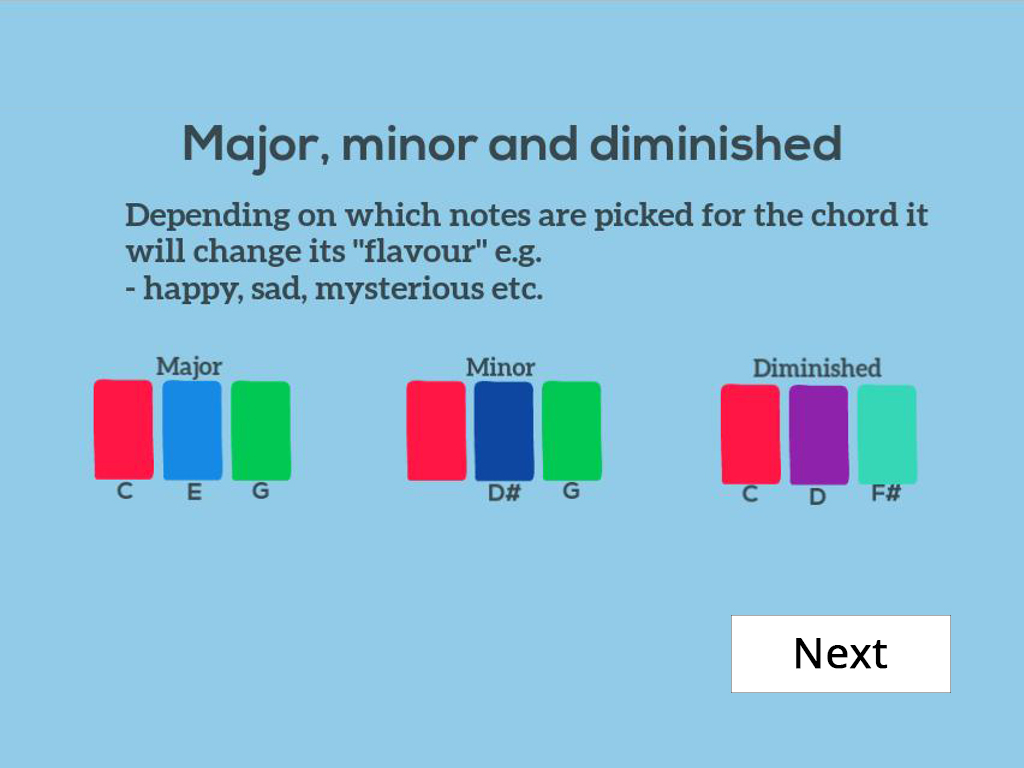
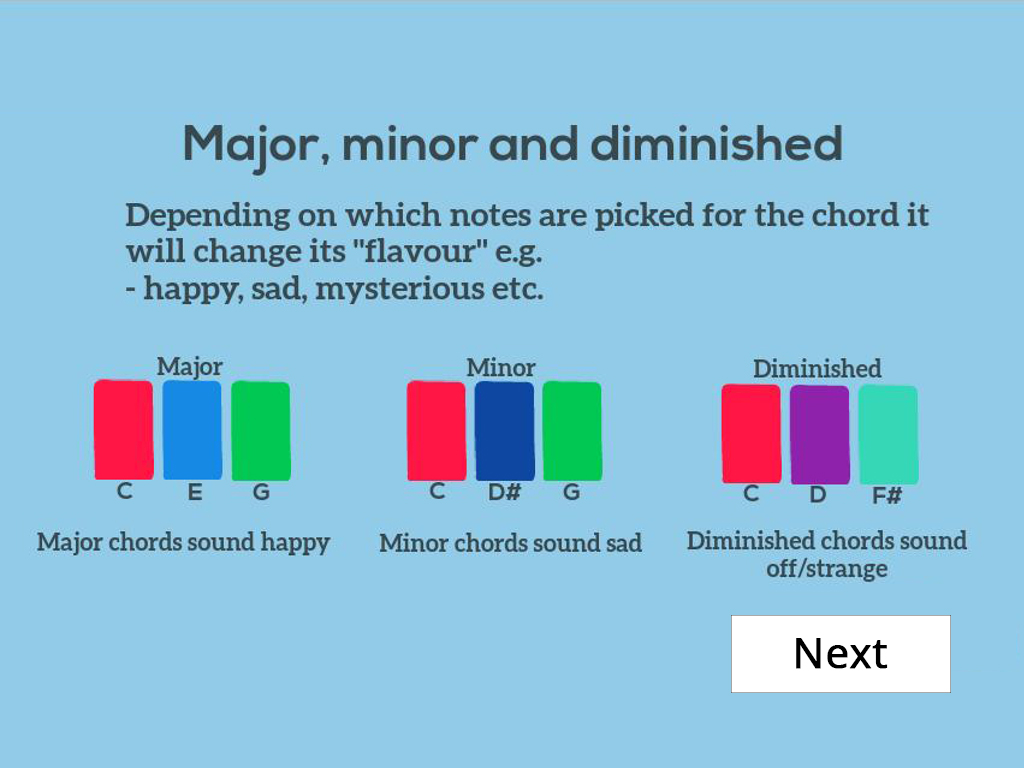
Updated tutorial with new page(tut6)/edited tut5

diff --git a/Game/Game/GUI.cpp b/Game/Game/GUI.cpp
@@ -257,7 +257,7 @@ void callBackFuncTutorial(int event, int x, int y, int flags, void* userdata)
 		if (btnNext.contains(Point(x, y)))
 		{
 			cout << "Next!" << endl;
-			if (getTut() <= 4) {
+			if (getTut() <= 5) {
 				setTut(getTut() + 1);
 				loadTutorial(getTut());
 			}
